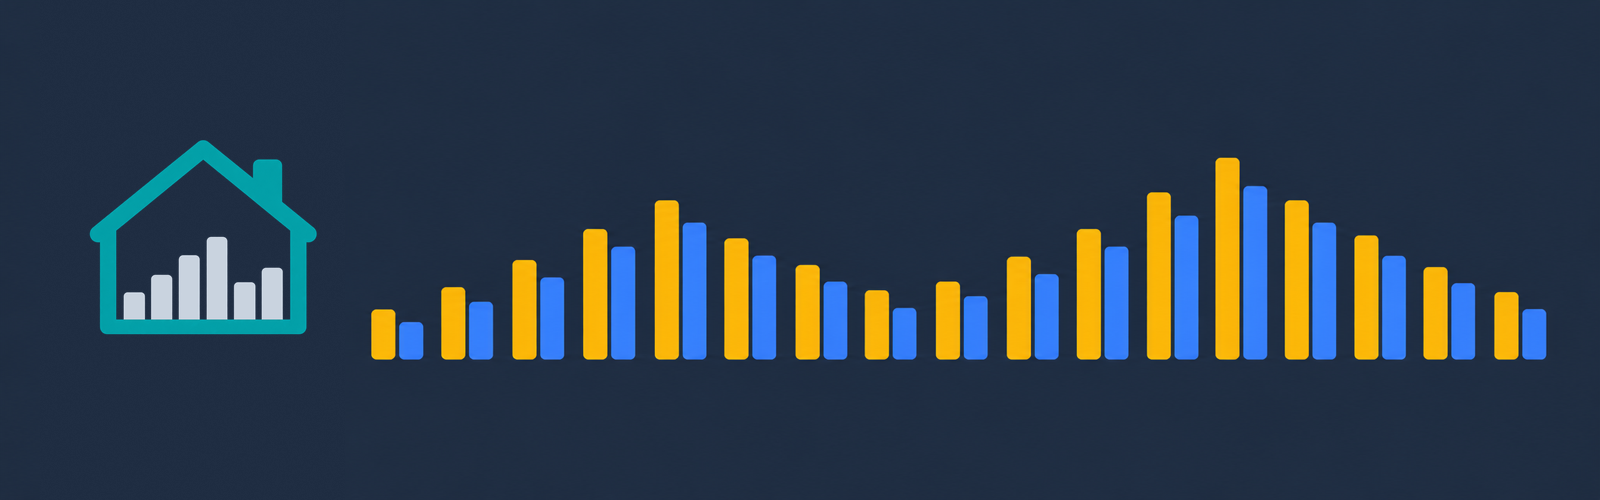
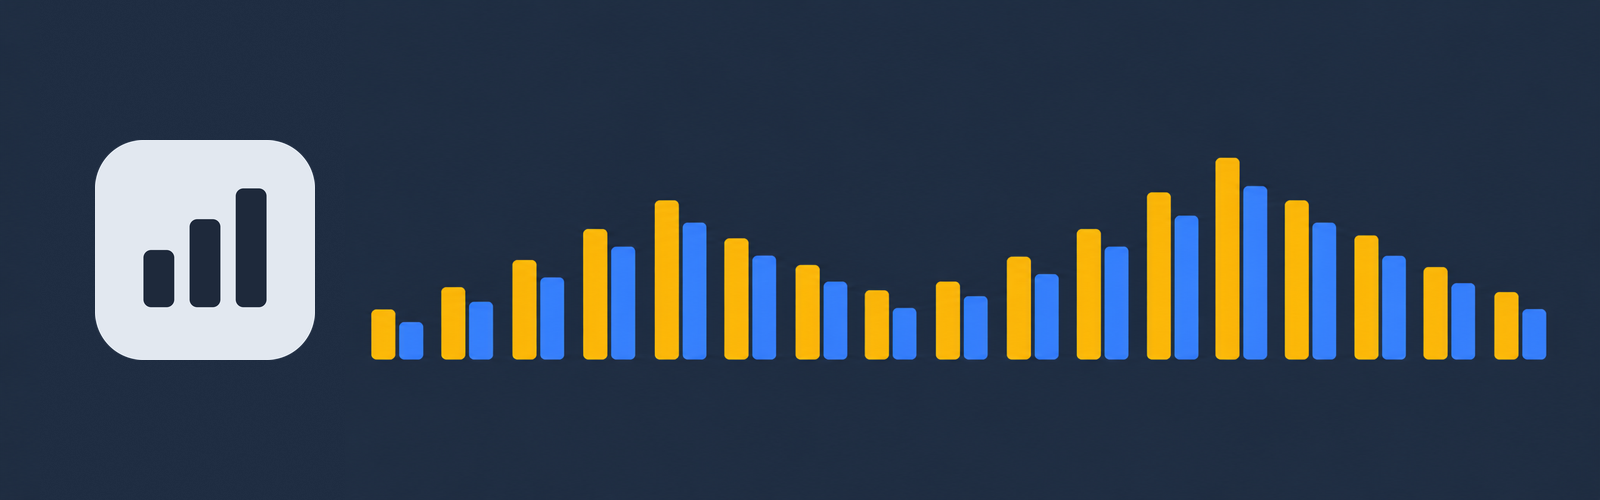
feat: HalfPast Meter, with a simpler mark
The display name becomes HalfPast Meter in Home Assistant, HACS and the docs,
after a survey of the field (Halfhour was taken in September 2026; X Energy,
Power X and X Meter crowd HACS). The domain bright_meter and every statistic
id are unchanged. New mark: three rising bars on a rounded tile, drawn as flat
shapes, light and dark; the wide logo and the README banner use it. 0.3.1.

Changed region(s): [[0.0312, 0.27, 0.2188, 0.72]]

diff --git a/README.md b/README.md
@@ -1,10 +1,10 @@
 <div align="center">
 
-<img src="docs/assets/banner.png" alt="A house outline holding a small bar chart, beside half-hourly bars of electricity in amber and gas in blue." width="100%">
+<img src="docs/assets/banner.png" alt="The HalfPast Meter mark, three rising bars on a tile, beside half-hourly bars of electricity in amber and gas in blue." width="100%">
 
-# 💡 Bright Smart Meter for Home Assistant
+# 📊 HalfPast Meter
 
-**Half-hourly UK smart-meter data from the Bright app's DCC feed, filed in Home Assistant at the hour it happened, whoever your supplier is**
+**Your smart meter's half-hours, put back in Home Assistant where they happened, whoever supplies you**
 
 ![Python](https://img.shields.io/badge/Python-3.14-3776AB?logo=python&logoColor=white)
 ![Home Assistant](https://img.shields.io/badge/Home_Assistant-2026.9-41BDF5?logo=homeassistant&logoColor=white)
@@ -50,7 +50,7 @@ Every 30 minutes the integration asks Glowmarkt how far each stream's data reach
 
 1. **Set up the Bright app** (iOS or Android, free): add your smart meter and let it share the meter's data. Wait until the app shows your usage.
 2. **Install.**
-   - **HACS** (once this repository is public; HACS installs only public repositories): **HACS → ⋮ → Custom repositories**, add `https://github.com/CaputoDavide93/Bright-Home-Assistant` as an **Integration**, install **Bright Smart Meter**, restart Home Assistant.
+   - **HACS** (once this repository is public; HACS installs only public repositories): **HACS → ⋮ → Custom repositories**, add `https://github.com/CaputoDavide93/Bright-Home-Assistant` as an **Integration**, install **HalfPast Meter**, restart Home Assistant.
    - **While it is private**, from a clone:
 
      ```bash
@@ -59,7 +59,7 @@ Every 30 minutes the integration asks Glowmarkt how far each stream's data reach
      ```
 
      Or copy `custom_components/bright_meter/` into Home Assistant's `config/custom_components/` and restart.
-3. **Add it:** **Settings → Devices & services → Add integration → Bright Smart Meter**. The guided setup takes four pages: sign in, your meters and how far their data reaches, how much history, and the exact statistics for the Energy dashboard.
+3. **Add it:** **Settings → Devices & services → Add integration → HalfPast Meter**. The guided setup takes four pages: sign in, your meters and how far their data reaches, how much history, and the exact statistics for the Energy dashboard.
 4. **Energy dashboard:** pick the statistics page 4 lists. If another integration already feeds the same meters, remove it from the dashboard first, or the energy is counted twice.
 
 Step by step, with what to check afterwards: [docs/setup.md](docs/setup.md).

diff --git a/docs/setup.md b/docs/setup.md
@@ -31,7 +31,7 @@ days).
 **With HACS**, once the repository is public (HACS installs only public
 repositories): **HACS → ⋮ → Custom repositories**, add
 `https://github.com/CaputoDavide93/Bright-Home-Assistant` with the category
-**Integration**, install **Bright Smart Meter**, then restart Home Assistant.
+**Integration**, install **HalfPast Meter**, then restart Home Assistant.
 HACS offers each GitHub release, and notifies you of new ones.
 
 **While the repository is private**, install it one of these two ways.
@@ -53,7 +53,7 @@ a time that suits the house.
 
 ## 3. Add it: the guided setup
 
-**Settings → Devices & services → Add integration → Bright Smart Meter.**
+**Settings → Devices & services → Add integration → HalfPast Meter.**
 
 | Page | What you do | What it shows |
 |---|---|---|
@@ -74,7 +74,7 @@ choose the `bright_meter:` statistics.
 
 ## 5. Check it worked
 
-- **Settings → Devices & services → Bright Smart Meter** shows one device per
+- **Settings → Devices & services → HalfPast Meter** shows one device per
   site.
 - The **data until** sensors show a time within the last day or so.
 - **Developer tools → Statistics** lists the `bright_meter:` statistics.

diff --git a/AGENTS.md b/AGENTS.md
@@ -33,9 +33,10 @@ This repository follows Davide Caputo's house standards. The full spec is
 
 <!-- ── repo-specific notes below this line ─────────────────────────────── -->
 
-## This repo: the Bright smart meter integration
+## This repo: HalfPast Meter
 
-A Home Assistant custom integration, domain `bright_meter`, that imports UK
+A Home Assistant custom integration, displayed as **HalfPast Meter**, domain
+`bright_meter` (the domain predates the name and must not change), that imports UK
 smart-meter data from Hildebrand's Glowmarkt API (the DCC feed behind the free
 Bright app) as hourly external statistics. It started from
 [existentia/hildebrand-glow-ha](https://github.com/existentia/hildebrand-glow-ha)

diff --git a/CHANGELOG.md b/CHANGELOG.md
@@ -5,6 +5,19 @@ All notable changes to this project are documented here. The format follows
 
 ## [Unreleased]
 
+## [0.3.1] - 2026-10-07
+
+### Changed
+
+- The integration is now called **HalfPast Meter**, in Home Assistant's
+  integration list, in HACS and in the docs. Chosen after a survey of the
+  field: "Halfhour" was taken by another Home Assistant integration in
+  September 2026, and "X Energy", "Power X" and "X Meter" names crowd HACS.
+  The domain `bright_meter` and every `bright_meter:` statistic id are
+  unchanged, so nothing imported is lost.
+- A simpler mark: three rising bars on a rounded tile, drawn as flat shapes,
+  with light and dark versions; the wide logo and the banner use it.
+
 ## [0.3.0] - 2026-10-07
 
 ### Added
